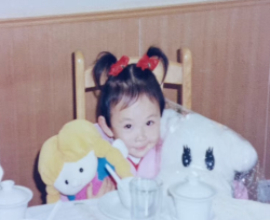
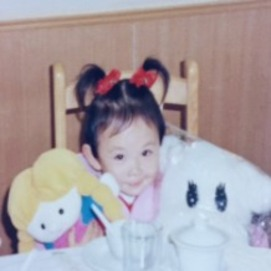
Update on 5/18/2022

diff --git a/index.html b/index.html
@@ -112,7 +112,7 @@
 
             <div id="selfie">
                 <div id="selfienow">
-                    <img src="img/selfie.png" alt="A Photo of Me">
+                    <img src="img/mephoto2.jpeg" alt="A Photo of Me">
                 </div>
                 <div id="selfkid">
                     <img src="img/selfkid.jpeg" alt="Kid version of me">
@@ -122,8 +122,8 @@
             <h2>About me</h2>
             <div id="aboutmedetail">
                 <p>I'm a Ph.D. student from the <a href="https://dornsife.usc.edu/psyc" target="_blank">Department of Psychology at USC</a>.</p>
-                <p>My research area is Developmental Psychology. I am mainly interested in children's Theory of Mind development, and social learning.</p>
-                <p>Check out my <a href="https://scholar.google.com/citations?user=BMULxfYAAAAJ&hl=en&oi=sra" target="_blank">Google Scholar page</a>.</p>
+                <p>My research area is Developmental Psychology. I am mainly interested in children's Theory of Mind development and social learning.</p>
+                <p>Check out my <a href="https://scholar.google.com/citations?user=BMULxfYAAAAJ&hl=en&oi=sra" target="_blank">Google Scholar page</a> and my <a href="https://www.linkedin.com/in/qianhui-ni" target="_blank">LinkedIn profile</a></p>
                 <p>Contact: <a href="mailto:itp@usc.edu">qni@usc.edu</a> or  <a href="https://twitter.com/QianhuiNi?ref_src=twsrc%5Etfw" class="twitter-follow-button" data-show-count="false">Follow @QianhuiNi</a><script async src="https://platform.twitter.com/widgets.js" charset="utf-8"></script></p>
             </div>
             <div class="clearfloat"></div>
@@ -138,7 +138,7 @@
             <div class="detail">
                 <h3>Educations</h3>
 
-                <p class="institution"><strong>University of Southern California</strong></p>
+                <p class="institution"><strong>University of Southern California (USC)</strong></p>
                 <p class="date">Aug 2019 - Present</p>
                 <div class="clearfloat"></div>
                 <ul>
@@ -147,14 +147,14 @@
                     <li>Advisor: Dr. Henrike Moll (<a href="https://dornsife.usc.edu/labs/mid-la/" target="_blank">Minds in Development Lab</a>)</li>
                 </ul>
 
-                <p class="institution"><strong>University of Southern California</strong></p>
+                <p class="institution"><strong>University of Southern California (USC)</strong></p>
                 <p class="date">Aug 2019 - Aug 2021</p>
                  <div class="clearfloat"></div>
                 <ul>
                     <li>M.A. in Psychology</li>
                 </ul>
 
-                <p class="institution"><strong>East China Normal University</strong></p>
+                <p class="institution"><strong>East China Normal University (ECNU)</strong></p>
                 <p class="date">Sept 2015 - Jun 2019</p>
                  <div class="clearfloat"></div>
                 <ul>
@@ -169,15 +169,7 @@
                 </ul>
 
                 <h3>Experiences</h3>
-                <p class="institution"><strong>User Experience Researcher (Part-Time)</strong> | <em>Code for San Jose</em></p>
-                <p class="date">Aug 2021 - Present</p>
-                <div class="clearfloat"></div>
-                <ul>
-                    <li>Designed and led exploratory research study with Spanish speaking patients to understand their user journey on Vot-ER (an online guide to voter registration)</li>
-                    <li>Developed interview protocol, recruited participants, and managed Spanish speaking moderators to facilitate in-depth interviews</li>
-                    <li>Synthesized findings and identified key needs that informed the redesign of the landing page</li>
-                </ul>
-
+                
                 <p class="institution"><strong>Graduate Research Assistant</strong> | <em>USC</em></p>
                 <p class="date">Aug 2019 - Present</p>
                 <div class="clearfloat"></div>
@@ -185,6 +177,15 @@
                     <li>Advisor: Dr. Henrike Moll (<a href="https://dornsife.usc.edu/labs/mid-la/" target="_blank">Minds in Development Lab</a>)</li>
                     <li>Lead research on how children understand others' beliefs, perspectives, and intentions</li>
                     <li>Recruit participants, analyze data using R & Python, disseminate research findings through manuscripts and presentations</li>
+                </ul>
+
+                <p class="institution"><strong>User Experience Researcher (Part-Time)</strong> | <em>Code for San Jose</em></p>
+                <p class="date">Aug 2021 - Dec 2021</p>
+                <div class="clearfloat"></div>
+                <ul>
+                    <li>Designed and led exploratory research study with Spanish speaking patients to understand their user journey on Vot-ER (an online guide to voter registration)</li>
+                    <li>Developed interview protocol, recruited participants, and managed Spanish speaking moderators to facilitate in-depth interviews</li>
+                    <li>Synthesized findings and identified key needs that informed the redesign of the landing page</li>
                 </ul>
 
                 <p class="institution"><strong>Student Research Intern</strong> | <em>Brown University</em></p>
@@ -196,7 +197,7 @@
                     <li>Designed and programmed behavioral experiments using MATLAB Psychtoolbox, recruited participants, collected and analyzed data using MATLAB and R</li>
                 </ul>
 
-                <p class="institution"><strong>Secondary director</strong> | <em>ECNU</em></p>
+                <p class="institution"><strong>Student Researcher</strong> | <em>ECNU</em></p>
                 <p class="date">Sept 2016 - Oct 2017</p>
                 <div class="clearfloat"></div>
                 <ul>
@@ -212,7 +213,7 @@
                     <li>Responsible for conducting tests, mobile app evaluation, data analyses and thesis writing</li>
                 </ul>
 
-                <p class="institution"><strong>Founder & Captain</strong> | <em>ECNU</em></p>
+                <p class="institution"><strong>Founder & Team Leader</strong> | <em>ECNU</em></p>
                 <p class="date">Jul 2017 - May 2019</p>
                 <div class="clearfloat"></div>
                 <ul>
@@ -266,6 +267,9 @@
                 <h3 id="awardtitle">Honors & Awards</h3>
                 <div id="awardlist">
                     <ul>
+                        <li>USC Dornsife PhD Academy Scholarship and Research Fund Award 2022</li>
+                        <li>USC GSG Professional Development Fund 2022</li>
+                        <li>USC Department of Psychology Travel Award 2022</li>
                         <li>USC Department of Psychology Doctoral Research Grant Award 2021-2022: $2,725</li>
                         <li>USC Dornsife PhD Academy Scholarship and Research Fund Award 2021</li>
                         <li>USC Department of Psychology Doctoral Research Grant Award 2020-2021: $1,900</li>

diff --git a/extra.html b/extra.html
@@ -20,7 +20,7 @@
     <style>
 
 		#header {
-			background-image: url('img/duck.gif');
+			background-image: url('img/huyangtitle.jpeg');
 		}
 
         #writing img {
@@ -121,6 +121,20 @@
                    <li><img src="photogallery/gallery_Budapest5.jpg" alt="Budapest 5"></li>
                    <li><img src="photogallery/gallery_Budapest6.jpg" alt="Budapest 6"></li>
                    <li><img src="photogallery/gallery_Budapest7.jpg" alt="Budapest 7"></li>
+                </ul>
+             </section>
+
+             <h3>Random Life Photos</h3>
+
+             <section class="galleryslider">
+                <ul>
+                   <li><img src="photogallery/random_lv.jpeg" alt="Las Vegas"></li>
+                   <li><img src="photogallery/random_disney.JPG" alt="Disneyland"></li>
+                   <li><img src="photogallery/random_deathval.jpeg" alt="Death Valley"></li>
+                   <li><img src="photogallery/random_echopark.jpeg" alt="Echo Park"></li>
+                   <li><img src="photogallery/random_madison.jpeg" alt="Madison WI"></li>
+                   <li><img src="photogallery/random_huntington.jpeg" alt="Huntington"></li>
+                   <li><img src="photogallery/random_kenneth.jpeg" alt="Kenneth Park"></li>
                 </ul>
              </section>
 
